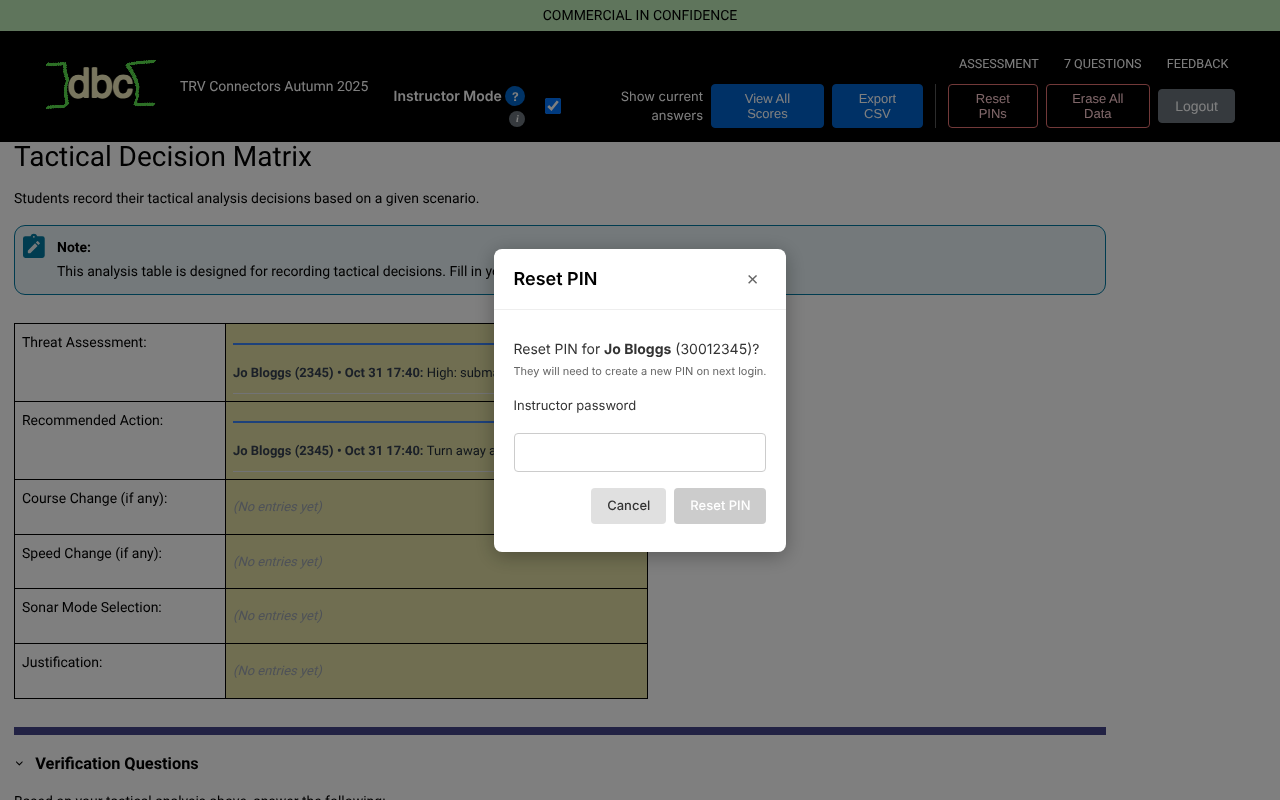
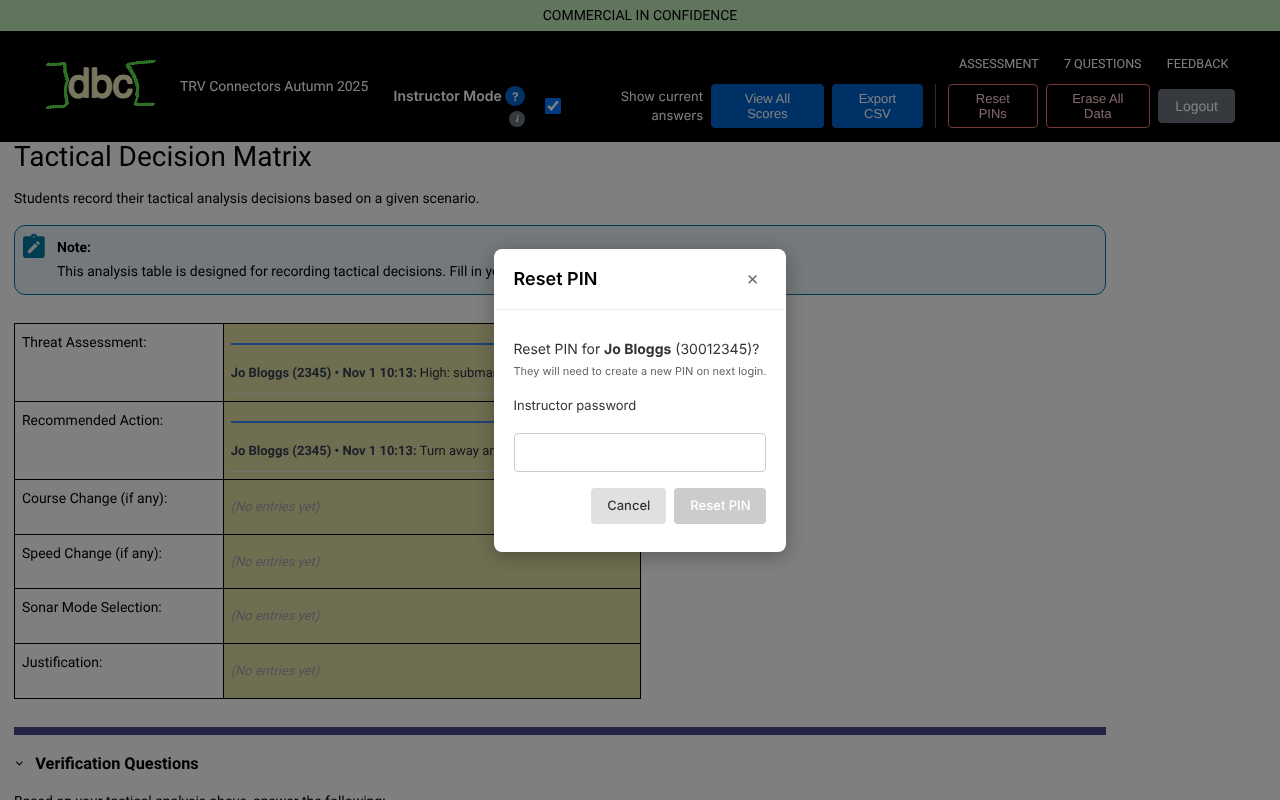
docs(walkthrough): recapture from the regenerated demo
Screenshots now show the question total ("2 of 37 answered") and the
template's header without search, so the capture no longer hides the
search box and the intro slide no longer says it does.

Claude-Session: https://claude.ai/code/session_019erPampkiqiri3Gab6oSHB

diff --git a/docs/walkthrough/img/shots.js b/docs/walkthrough/img/shots.js
@@ -72,7 +72,7 @@ window.WALKTHROUGH_SHOTS = {
     "progress": {
       "x": 73.08,
       "y": 14.5,
-      "w": 11.09,
+      "w": 13.84,
       "h": 3.19
     },
     "header": {
@@ -224,15 +224,15 @@ window.WALKTHROUGH_SHOTS = {
     "answers": {
       "x": 32.06,
       "y": 39.78,
-      "w": 16.84,
+      "w": 16.55,
       "h": 9.2
     }
   },
   "16-analysis-instructor": {
     "entries": {
-      "x": 17.96,
+      "x": 17.78,
       "y": 42.53,
-      "w": 32.26,
+      "w": 31.9,
       "h": 7.1
     }
   },
@@ -311,4 +311,4 @@ window.WALKTHROUGH_SHOTS = {
     }
   }
 };
-window.WALKTHROUGH_CSV = "Service ID,Name,Release,Page ID,Question Index,Answer,Success,Timestamp,Kind,Attempts,First Attempt Correct\n30012345,Jo Bloggs,TRV Connectors Autumn 2025,quiz-mcq,0,1,true,2026-10-31T17:40:36.019Z,quiz,2,false\n30012345,Jo Bloggs,TRV Connectors Autumn 2025,quiz-mcq,1,2,false,2026-10-31T17:40:36.427Z,quiz,1,false\n30012345,Jo Bloggs,TRV Connectors Autumn 2025,quiz-numeric,4,1500,true,2026-10-31T17:40:37.861Z,quiz,1,true\n30012345,Jo Bloggs,TRV Connectors Autumn 2025,analysis-tactical,Threat Assessment,High: submarine contact bearing 045,,2026-10-31T17:40:39.742Z,analysis,,\n30012345,Jo Bloggs,TRV Connectors Autumn 2025,analysis-tactical,Recommended Action,Turn away and increase speed,,2026-10-31T17:40:39.742Z,analysis,,\n30067890,Sam Smith,TRV Connectors Autumn 2025,quiz-mcq,0,1,true,2026-10-31T17:40:44.530Z,quiz,1,true\n30067890,Sam Smith,TRV Connectors Autumn 2025,quiz-mcq,1,3,true,2026-10-31T17:40:44.790Z,quiz,1,true\n30067890,Sam Smith,TRV Connectors Autumn 2025,quiz-mcq,2,1,true,2026-10-31T17:40:45.048Z,quiz,1,true\n30067890,Sam Smith,TRV Connectors Autumn 2025,quiz-mcq,3,1,true,2026-10-31T17:40:45.306Z,quiz,1,true\n30067890,Sam Smith,TRV Connectors Autumn 2025,quiz-mcq,4,2,true,2026-10-31T17:40:45.566Z,quiz,1,true";
+window.WALKTHROUGH_CSV = "Service ID,Name,Release,Page ID,Question Index,Answer,Success,Timestamp,Kind,Attempts,First Attempt Correct\n30012345,Jo Bloggs,TRV Connectors Autumn 2025,quiz-mcq,0,1,true,2026-11-01T10:13:30.980Z,quiz,2,false\n30012345,Jo Bloggs,TRV Connectors Autumn 2025,quiz-mcq,1,2,false,2026-11-01T10:13:31.398Z,quiz,1,false\n30012345,Jo Bloggs,TRV Connectors Autumn 2025,quiz-numeric,4,1500,true,2026-11-01T10:13:32.851Z,quiz,1,true\n30012345,Jo Bloggs,TRV Connectors Autumn 2025,analysis-tactical,Threat Assessment,High: submarine contact bearing 045,,2026-11-01T10:13:34.788Z,analysis,,\n30012345,Jo Bloggs,TRV Connectors Autumn 2025,analysis-tactical,Recommended Action,Turn away and increase speed,,2026-11-01T10:13:34.788Z,analysis,,\n30067890,Sam Smith,TRV Connectors Autumn 2025,quiz-mcq,0,1,true,2026-11-01T10:13:39.674Z,quiz,1,true\n30067890,Sam Smith,TRV Connectors Autumn 2025,quiz-mcq,1,3,true,2026-11-01T10:13:39.934Z,quiz,1,true\n30067890,Sam Smith,TRV Connectors Autumn 2025,quiz-mcq,2,1,true,2026-11-01T10:13:40.197Z,quiz,1,true\n30067890,Sam Smith,TRV Connectors Autumn 2025,quiz-mcq,3,1,true,2026-11-01T10:13:40.461Z,quiz,1,true\n30067890,Sam Smith,TRV Connectors Autumn 2025,quiz-mcq,4,2,true,2026-11-01T10:13:40.721Z,quiz,1,true";

diff --git a/docs/walkthrough/index.html b/docs/walkthrough/index.html
@@ -177,8 +177,7 @@ const SLIDES = [
         template does the rest. No command line.</div>
       </div>
       <p class="note" style="margin-top:18px">Screenshots come from the demo publication on the current
-      code. The demo output predates the template change that removes the search box, so the capture
-      hides it to match. <a href="${DEMO}">Open the live demo</a>.</p>`,
+      code. <a href="${DEMO}">Open the live demo</a>.</p>`,
   },
 
   { section: 'Student', shot: '01-logged-out', title: 'Arriving at a quiz page',
@@ -209,7 +208,7 @@ const SLIDES = [
 
   { section: 'Student', shot: '05-mcq', title: 'Answering multiple-choice questions',
     notes: [
-      ['progress', '"Answered" and "correct" come from the stored record, so they do not change with the page. With a publication total it reads "2 of 40 answered".', 'SCO-02, SCO-03'],
+      ['progress', '"Answered" and "correct" come from the stored record, so they do not change with the page. The template counts the questions in the publication, so it reads "2 of 37 answered".', 'SCO-02, SCO-03'],
       ['header', 'The column is headed "Your answer", whatever the author called it.', 'UX-04'],
       ['correct', 'Right and wrong are shown with a mark and words, not colour alone, and announced to screen readers.', 'A11Y-02'],
       ['incorrect', 'Retries are allowed for learning. The first result and the number of tries are kept for the instructor.', 'SCO-01'],
